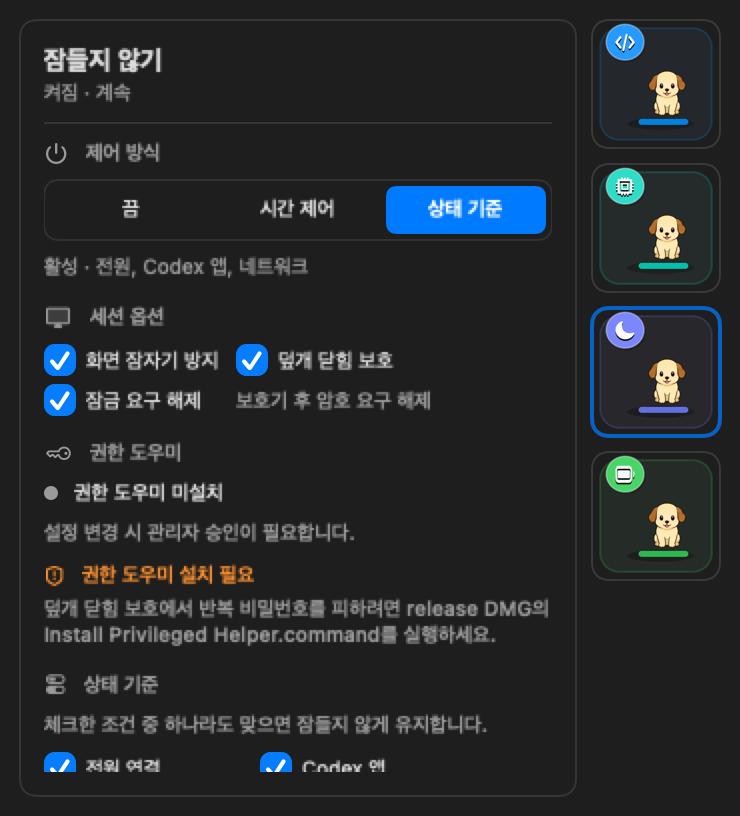
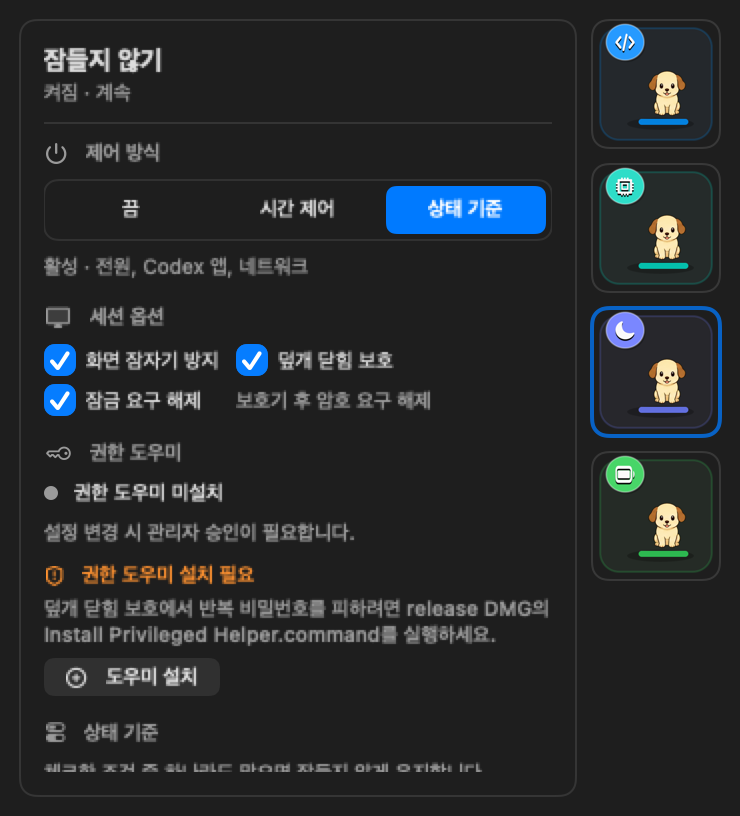
test: guard mac resource trend layout

Changed region(s): [[0.0622, 0.7966, 0.6527, 0.9498]]

diff --git a/Tests/MacDogTests/UsageMonitorStateTests.swift b/Tests/MacDogTests/UsageMonitorStateTests.swift
@@ -93,6 +93,22 @@ final class UsageMonitorStateTests: XCTestCase {
         XCTAssertEqual(history.memoryUsedPercents.last, 74)
     }
 
+    func testMacResourcesTabStaysUnscrollableWithTrendGraphs() {
+        XCTAssertFalse(MacDogPopoverModule.codex.usesScrollableContent)
+        XCTAssertFalse(MacDogPopoverModule.mac.usesScrollableContent)
+        XCTAssertTrue(MacDogPopoverModule.sleep.usesScrollableContent)
+        XCTAssertFalse(MacDogPopoverModule.battery.usesScrollableContent)
+    }
+
+    func testDemoDataProvidesCpuAndMemoryTrendSamplesForMacTab() {
+        let state = MacDogDemoData.state()
+
+        XCTAssertGreaterThan(state.systemMetricsHistory.cpuLoadPercents.count, 1)
+        XCTAssertGreaterThan(state.systemMetricsHistory.memoryUsedPercents.count, 1)
+        XCTAssertEqual(state.systemMetricsHistory.cpuLoadPercents.last, state.systemMetrics.cpuLoadPercent)
+        XCTAssertEqual(state.systemMetricsHistory.memoryUsedPercents.last, state.systemMetrics.memoryUsedPercent)
+    }
+
     private static func report(fiveHourUsedPercent: Double, weeklyUsedPercent: Double) -> CodexUsageReport {
         let fiveHour = UsageWindowReport(
             kind: .fiveHour,

diff --git a/Sources/MacDog/MacDogDemoData.swift b/Sources/MacDog/MacDogDemoData.swift
@@ -29,7 +29,7 @@ enum MacDogDemoData {
 
     private static var systemMetricsHistory: SystemMetricsHistory {
         let now = Date()
-        let cpuValues: [Double] = [18, 22, 20, 27, 31, 26, 24.9, 29, 34, 28, 25]
+        let cpuValues: [Double] = [18, 22, 20, 27, 31, 26, 24.9, 29, 34, 28, 24.9]
         let memoryValues: [Double] = [44, 45.5, 46, 47.8, 48.2, 48.9, 49.1, 49.4, 49.0, 49.6, 49.1]
         let samples = zip(cpuValues.indices, cpuValues).map { index, cpu in
             SystemMetricsHistorySample(